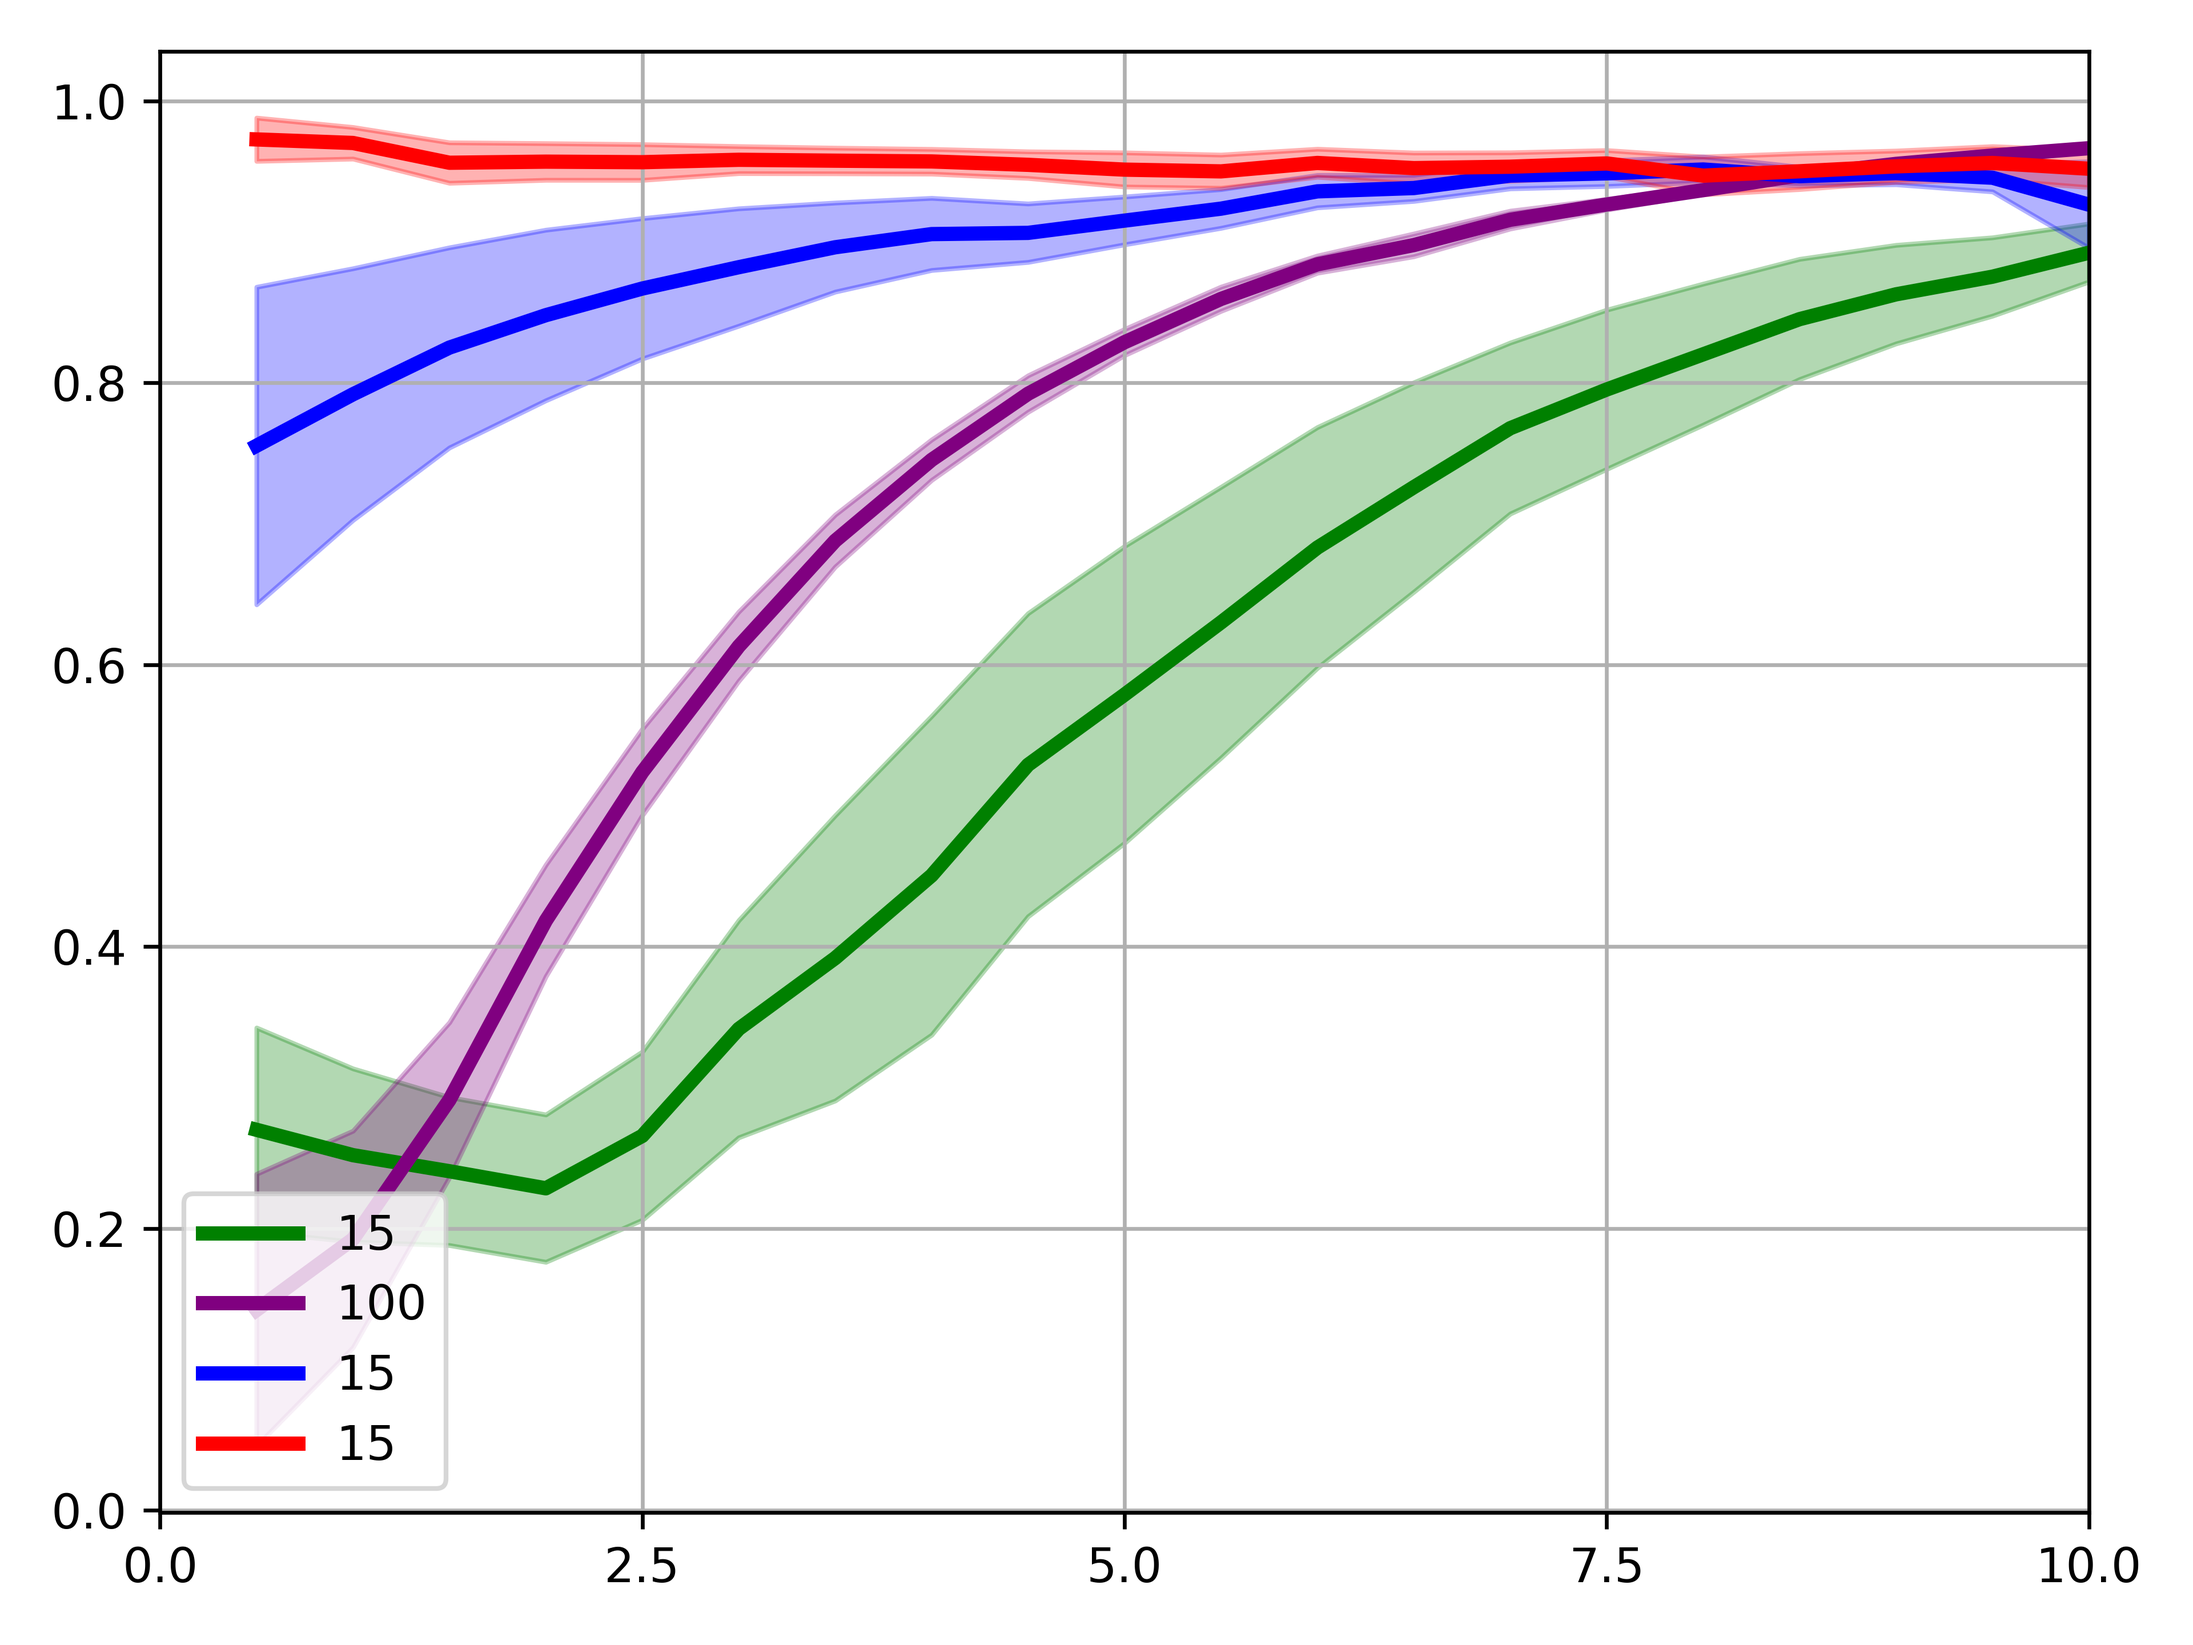
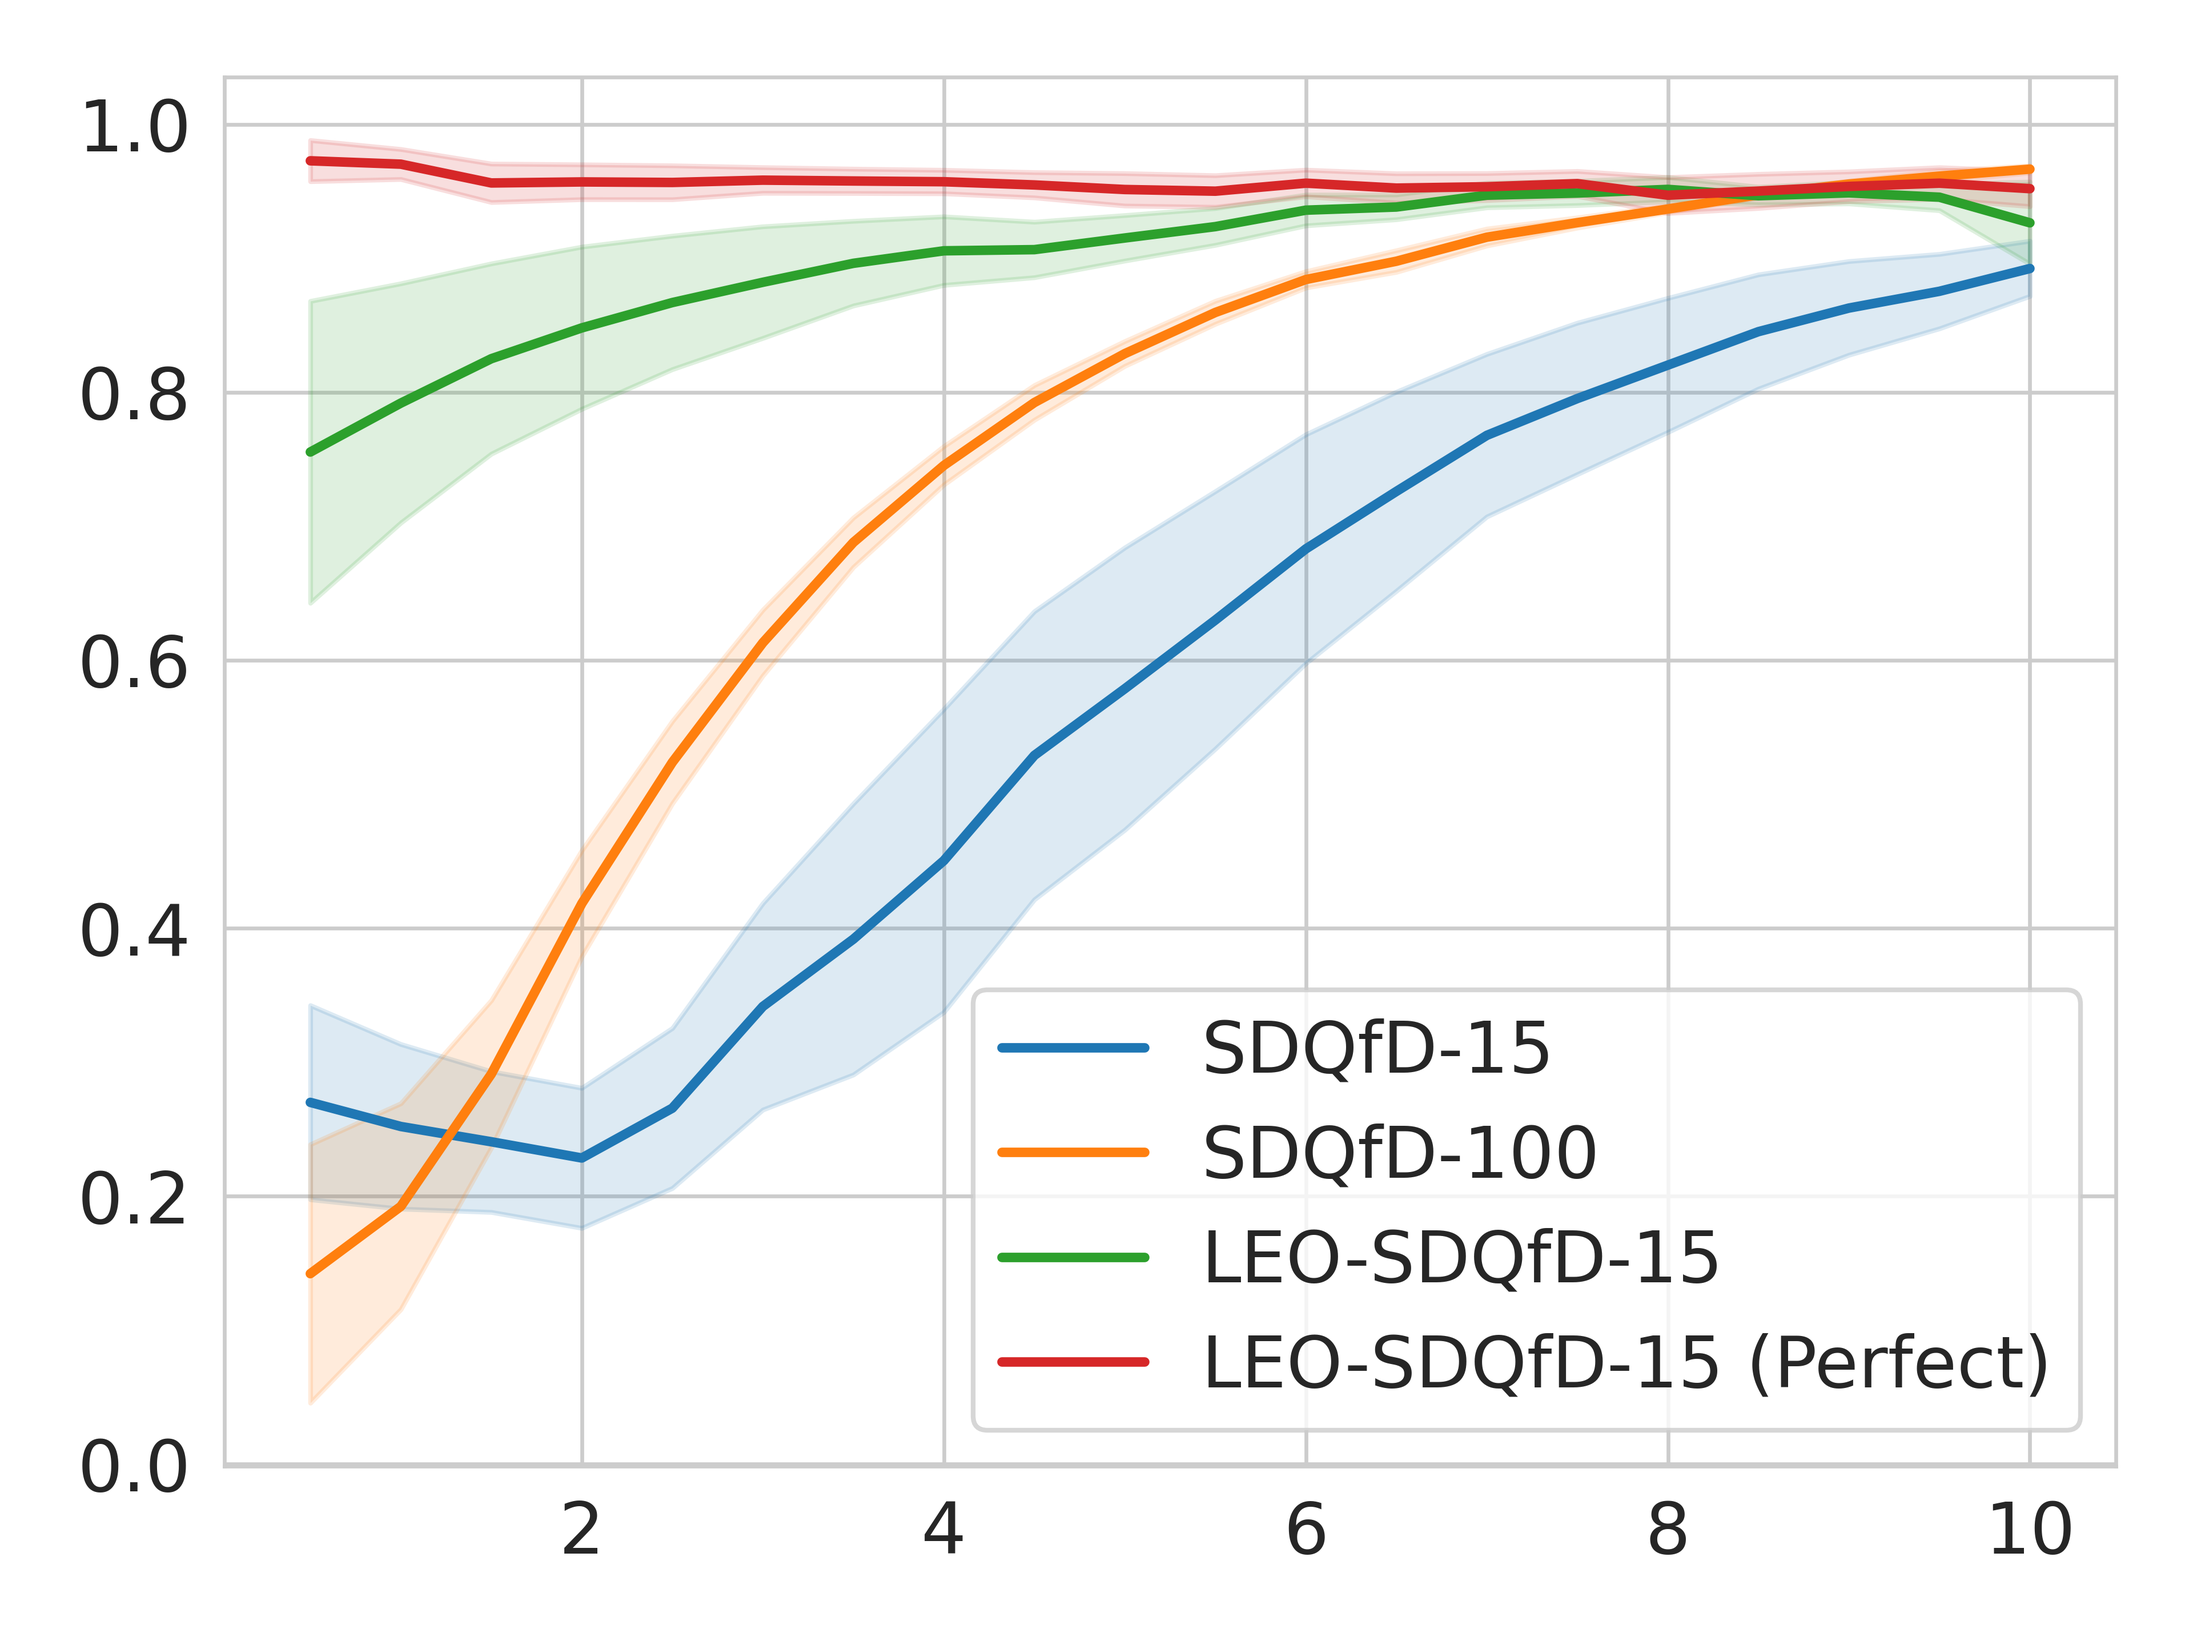
minor tweak

Changed region(s): [[0.0312, 0.0312, 0.9688, 0.9688]]

diff --git a/plot.py b/plot.py
@@ -3,6 +3,20 @@ import numpy as np
 from matplotlib import pyplot as plt
 from scipy import stats
 import os
+import seaborn as sns
+import matplotlib as mpl
+import argparse
+
+
+cmap = plt.get_cmap('tab10')
+
+mpl.rcParams['pdf.fonttype'] = 42
+mpl.rcParams['ps.fonttype'] = 42
+
+SMALL_SIZE = 15
+
+mpl.rc('font', size=SMALL_SIZE)
+mpl.rc('axes', titlesize=SMALL_SIZE)
 
 def lpf(arr, weight=0.8):
   filtered_arr = arr
@@ -11,25 +25,57 @@ def lpf(arr, weight=0.8):
   return filtered_arr
 #----------------------- config here ------------------------#
 
-task = 'house_building_4'
-# algo = 'DQN'
-algo = 'SDQfD'
-num_expert = 25
+parser = argparse.ArgumentParser()
+parser.add_argument('--file', type=str)
+parser.add_argument('--task', type=str, default='block_stacking', help="'1l2b2r','block_stacking','house_building_1','house_building_2','house_building_4")
+parser.add_argument('--algo', type=str, default='DQN', help="'DQN','SDQfD'")
+parser.add_argument('--show', type=int, default=1)
+args = parser.parse_args()
+
+num_experts_lookup = {'1l2b2r': 15,
+                      'block_stacking': 5,
+                      'house_building_1': 5,
+                      'house_building_2': 5,
+                      'house_building_4': 25}
+
+task = args.task
+algo = args.algo
+num_expert = num_experts_lookup[args.task]
+
+if algo in ['DQN']:
+  sns.set_style('darkgrid')
+else:
+  sns.set_style('whitegrid')
+
+# label
+# SDQfD-100
+# SDQfD-5
+# LEO-SDQfD-5
+# LEO-SDQfD-5 (Perfect)
 
 #------------------------------------------------------------#
 parent_folder = f'new_{task}'
+# color_list = [
+#             'g', 
+#             'purple',
+#             'b',
+#             'y', 
+#             'r'
+#             ]
+
 color_list = [
-            'g', 
-            'purple',
-            'b',
-            'r'
+            cmap.colors[0],
+            cmap.colors[1],
+            cmap.colors[2],
+            cmap.colors[3],
+            cmap.colors[4],
             ]
 
 label_list = [
-            num_expert,
-            100,
-            num_expert,
-            num_expert
+            f"{algo}-{num_expert}",
+            f"{algo}-100",
+            f"LEO-{algo}-{num_expert}",
+            f"LEO-{algo}-{num_expert} (Perfect)",
 ]
 # folder_list = os.listdir(parent_folder)
 folder_list = [
@@ -41,20 +87,21 @@ folder_list = [
 
 if (task == 'house_building_4'):
   color_list.append('y')
-  label_list.append(num_expert)
+  # label_list.append(num_expert)
   folder_list.append(f"G-{algo}_equi_Classifier_{num_expert}")
+  label_list.append(f"LEO-{algo}-{num_expert} (Equi)",)
 
 file_name = 'info/eval_rewards.npy'
 line_list = []
 
 for id, folder_name in enumerate(folder_list):
-  print(folder_name)
+  # print(folder_name)
   avg = []
   sub_folder_list = os.listdir(os.path.join(parent_folder, folder_name))
 
   for i, sub_folder in enumerate(sub_folder_list):
     arr = np.load(os.path.join(parent_folder, folder_name, sub_folder, file_name), allow_pickle=True)
-    print(len(arr))
+    # print(len(arr))
     arr = arr[0:len(arr)-1]
     avg.append([])
     for j in range(len(arr)):
@@ -65,17 +112,19 @@ for id, folder_name in enumerate(folder_list):
   std_arr = stats.sem(avg, axis=0)
 
   x = np.arange(0.5, (len(arr)+1)*0.5, 0.5)
-  plt.plot(x, plot_avg, color=color_list[id], linewidth=3,label=label_list[id])
+  plt.plot(x, plot_avg, color=color_list[id], linestyle='solid', linewidth=2, label=label_list[id])
   line_list.append(plot_avg)
-  plt.fill_between(x, plot_avg - std_arr, plot_avg + std_arr, color=color_list[id], alpha=0.3)
-plt.xlim([0,1])
-plt.xticks(np.arange(0, 0.5*(len(arr)+1), 2.5)) 
-plt.yticks(np.arange(0, 1.1, 0.2)) 
-# plt.legend(line_list, folder_list)
-plt.legend(loc='lower left')
+  plt.fill_between(x, plot_avg - std_arr, plot_avg + std_arr, color=color_list[id], alpha=0.15)
+# plt.xlim([0,1])
+# plt.ylim([0,25])
+# plt.xticks(np.arange(0, 0.5*(len(arr)+1), 2.5)) 
+# plt.yticks(np.arange(0, 1.1, 0.2)) 
+# plt.legend(line_list, folder_list)plt.legend(loc='upper left')
+plt.legend()
 # plt.title(parent_folder)
 plt.tight_layout()
-plt.grid()
-# plt.show()
-plt.savefig(os.path.join('Figures', f'{parent_folder}_{algo}.png'),dpi=600)
-
+# plt.grid()
+if args.show == 1:
+  plt.show()
+else:
+  plt.savefig(os.path.join('Figures', f'{parent_folder}_{algo}.png'),dpi=600)
